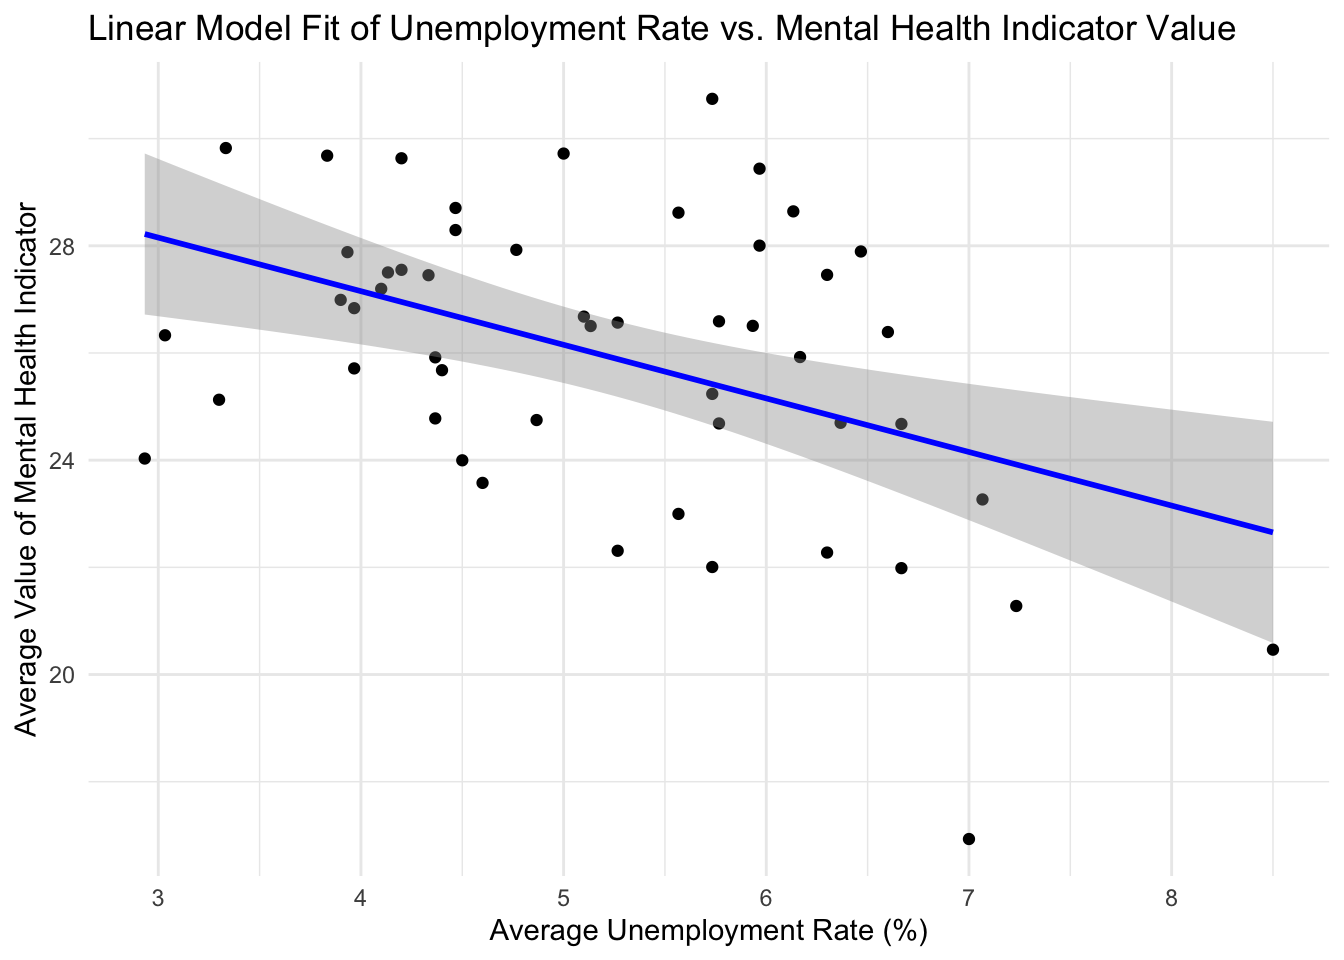
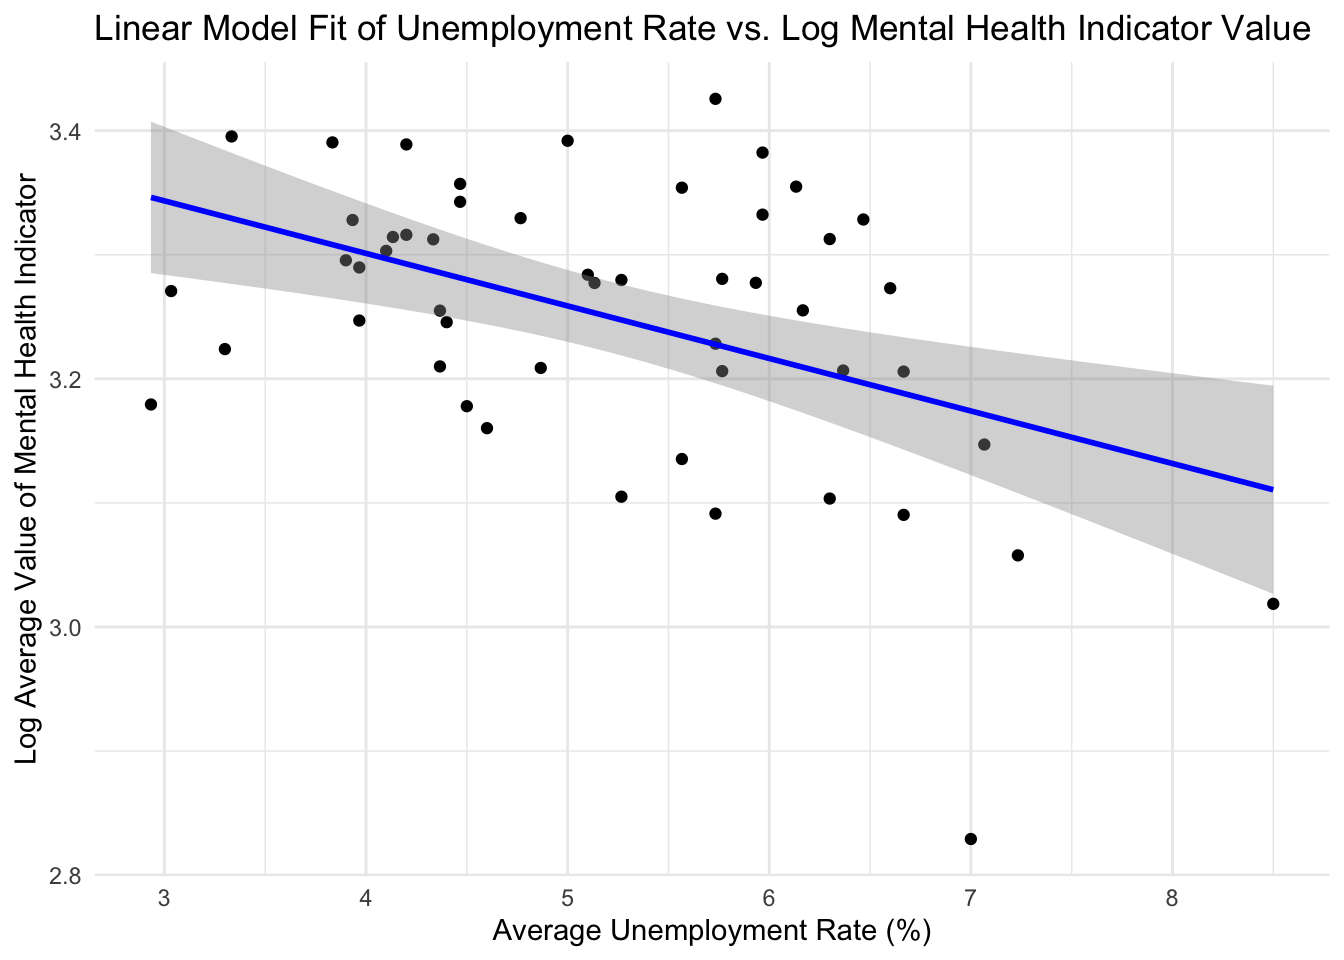
Built site for gh-pages

diff --git a/analysis.html b/analysis.html
@@ -21,69 +21,6 @@ ul.task-list li input[type="checkbox"] {
   margin: 0 0.8em 0.2em -1.6em;
   vertical-align: middle;
 }
-pre > code.sourceCode { white-space: pre; position: relative; }
-pre > code.sourceCode > span { display: inline-block; line-height: 1.25; }
-pre > code.sourceCode > span:empty { height: 1.2em; }
-.sourceCode { overflow: visible; }
-code.sourceCode > span { color: inherit; text-decoration: inherit; }
-div.sourceCode { margin: 1em 0; }
-pre.sourceCode { margin: 0; }
-@media screen {
-div.sourceCode { overflow: auto; }
-}
-@media print {
-pre > code.sourceCode { white-space: pre-wrap; }
-pre > code.sourceCode > span { text-indent: -5em; padding-left: 5em; }
-}
-pre.numberSource code
-  { counter-reset: source-line 0; }
-pre.numberSource code > span
-  { position: relative; left: -4em; counter-increment: source-line; }
-pre.numberSource code > span > a:first-child::before
-  { content: counter(source-line);
-    position: relative; left: -1em; text-align: right; vertical-align: baseline;
-    border: none; display: inline-block;
-    -webkit-touch-callout: none; -webkit-user-select: none;
-    -khtml-user-select: none; -moz-user-select: none;
-    -ms-user-select: none; user-select: none;
-    padding: 0 4px; width: 4em;
-    color: #aaaaaa;
-  }
-pre.numberSource { margin-left: 3em; border-left: 1px solid #aaaaaa;  padding-left: 4px; }
-div.sourceCode
-  {   }
-@media screen {
-pre > code.sourceCode > span > a:first-child::before { text-decoration: underline; }
-}
-code span.al { color: #ff0000; font-weight: bold; } /* Alert */
-code span.an { color: #60a0b0; font-weight: bold; font-style: italic; } /* Annotation */
-code span.at { color: #7d9029; } /* Attribute */
-code span.bn { color: #40a070; } /* BaseN */
-code span.bu { color: #008000; } /* BuiltIn */
-code span.cf { color: #007020; font-weight: bold; } /* ControlFlow */
-code span.ch { color: #4070a0; } /* Char */
-code span.cn { color: #880000; } /* Constant */
-code span.co { color: #60a0b0; font-style: italic; } /* Comment */
-code span.cv { color: #60a0b0; font-weight: bold; font-style: italic; } /* CommentVar */
-code span.do { color: #ba2121; font-style: italic; } /* Documentation */
-code span.dt { color: #902000; } /* DataType */
-code span.dv { color: #40a070; } /* DecVal */
-code span.er { color: #ff0000; font-weight: bold; } /* Error */
-code span.ex { } /* Extension */
-code span.fl { color: #40a070; } /* Float */
-code span.fu { color: #06287e; } /* Function */
-code span.im { color: #008000; font-weight: bold; } /* Import */
-code span.in { color: #60a0b0; font-weight: bold; font-style: italic; } /* Information */
-code span.kw { color: #007020; font-weight: bold; } /* Keyword */
-code span.op { color: #666666; } /* Operator */
-code span.ot { color: #007020; } /* Other */
-code span.pp { color: #bc7a00; } /* Preprocessor */
-code span.sc { color: #4070a0; } /* SpecialChar */
-code span.ss { color: #bb6688; } /* SpecialString */
-code span.st { color: #4070a0; } /* String */
-code span.va { color: #19177c; } /* Variable */
-code span.vs { color: #4070a0; } /* VerbatimString */
-code span.wa { color: #60a0b0; font-weight: bold; font-style: italic; } /* Warning */
 </style>
 
 
@@ -150,7 +87,7 @@ code span.wa { color: #60a0b0; font-weight: bold; font-style: italic; } /* Warni
   </li>  
   <li class="nav-item">
     <a class="nav-link" href="./big_picture.html">
- <span class="menu-text">Big Picture</span></a>
+ <span class="menu-text">Investigating Mental Health</span></a>
   </li>  
   <li class="nav-item">
     <a class="nav-link active" href="./analysis.html" aria-current="page">
@@ -175,16 +112,15 @@ code span.wa { color: #60a0b0; font-weight: bold; font-style: italic; } /* Warni
     <h2 id="toc-title">On this page</h2>
    
   <ul>
-  <li><a href="#example-of-loading-data" id="toc-example-of-loading-data" class="nav-link active" data-scroll-target="#example-of-loading-data">Example of loading data</a></li>
-  <li><a href="#note-on-attribution" id="toc-note-on-attribution" class="nav-link" data-scroll-target="#note-on-attribution">Note on Attribution</a></li>
-  <li><a href="#rubric-on-this-page" id="toc-rubric-on-this-page" class="nav-link" data-scroll-target="#rubric-on-this-page">Rubric: On this page</a></li>
+  <li><a href="#motivates" id="toc-motivates" class="nav-link active" data-scroll-target="#motivates">motivates:</a>
+  <ul class="collapse">
   <li><a href="#introduction-to-data-analysis-on-the-impact-of-unemployment-on-mental-health-during-the-pandemic" id="toc-introduction-to-data-analysis-on-the-impact-of-unemployment-on-mental-health-during-the-pandemic" class="nav-link" data-scroll-target="#introduction-to-data-analysis-on-the-impact-of-unemployment-on-mental-health-during-the-pandemic">Introduction to Data Analysis on the Impact of Unemployment on Mental Health during the Pandemic</a></li>
   <li><a href="#variables-and-relationships-of-interest" id="toc-variables-and-relationships-of-interest" class="nav-link" data-scroll-target="#variables-and-relationships-of-interest">Variables and Relationships of Interest</a></li>
   <li><a href="#research-questions" id="toc-research-questions" class="nav-link" data-scroll-target="#research-questions">Research Questions</a></li>
+  </ul></li>
   <li><a href="#model" id="toc-model" class="nav-link" data-scroll-target="#model">model</a>
   <ul class="collapse">
   <li><a href="#log-level-model" id="toc-log-level-model" class="nav-link" data-scroll-target="#log-level-model">log-level model:</a></li>
-  <li><a href="#sex-and-gender" id="toc-sex-and-gender" class="nav-link" data-scroll-target="#sex-and-gender">sex and gender</a></li>
   </ul></li>
   </ul>
 </nav>
@@ -214,100 +150,9 @@ code span.wa { color: #60a0b0; font-weight: bold; font-style: italic; } /* Warni
 
 </header>
 
-<p><img src="https://upload.wikimedia.org/wikipedia/commons/7/77/Pebbleswithquarzite.jpg" class="img-fluid"></p>
-<p>This comes from the file <code>analysis.qmd</code>.</p>
-<p>We describe here our detailed data analysis. This page will provide an overview of what questions you addressed, illustrations of relevant aspects of the data with tables and figures, and a statistical model that attempts to answer part of the question. You’ll also reflect on next steps and further analysis.</p>
-<p>The audience for this page is someone like your class mates, so you can expect that they have some level of statistical and quantitative sophistication and understand ideas like linear and logistic regression, coefficients, confidence intervals, overfitting, etc.</p>
-<p>While the exact number of figures and tables will vary and depend on your analysis, you should target around 5 to 6. An overly long analysis could lead to losing points. If you want you can link back to your blog posts or create separate pages with more details.</p>
-<p>The style of this paper should aim to be that of an academic paper. I don’t expect this to be of publication quality but you should keep that aim in mind. Avoid using “we” too frequently, for example “We also found that …”. Describe your methodology and your findings but don’t describe your whole process.</p>
-<section id="example-of-loading-data" class="level3">
-<h3 class="anchored" data-anchor-id="example-of-loading-data">Example of loading data</h3>
-<p>The code below shows an example of loading the loan refusal data set (which you should delete at some point).</p>
-<div class="cell">
-<div class="sourceCode cell-code" id="cb1"><pre class="sourceCode r code-with-copy"><code class="sourceCode r"><span id="cb1-1"><a href="#cb1-1" aria-hidden="true" tabindex="-1"></a><span class="fu">library</span>(tidyverse)</span></code><button title="Copy to Clipboard" class="code-copy-button"><i class="bi"></i></button></pre></div>
-<div class="cell-output cell-output-stderr">
-<pre><code>── Attaching core tidyverse packages ──────────────────────── tidyverse 2.0.0 ──
-✔ dplyr     1.1.4     ✔ readr     2.1.4
-✔ forcats   1.0.0     ✔ stringr   1.5.0
-✔ ggplot2   3.4.4     ✔ tibble    3.2.1
-✔ lubridate 1.9.3     ✔ tidyr     1.3.0
-✔ purrr     1.0.2     
-── Conflicts ────────────────────────────────────────── tidyverse_conflicts() ──
-✖ dplyr::filter() masks stats::filter()
-✖ dplyr::lag()    masks stats::lag()
-ℹ Use the conflicted package (&lt;http://conflicted.r-lib.org/&gt;) to force all conflicts to become errors</code></pre>
-</div>
-<div class="sourceCode cell-code" id="cb3"><pre class="sourceCode r code-with-copy"><code class="sourceCode r"><span id="cb3-1"><a href="#cb3-1" aria-hidden="true" tabindex="-1"></a><span class="fu">print</span>(<span class="fu">getwd</span>())</span></code><button title="Copy to Clipboard" class="code-copy-button"><i class="bi"></i></button></pre></div>
-<div class="cell-output cell-output-stdout">
-<pre><code>[1] "/Users/chenqiw/final-project-group-11"</code></pre>
-</div>
-<div class="sourceCode cell-code" id="cb5"><pre class="sourceCode r code-with-copy"><code class="sourceCode r"><span id="cb5-1"><a href="#cb5-1" aria-hidden="true" tabindex="-1"></a>data <span class="ot">&lt;-</span> <span class="fu">read_csv</span>(here<span class="sc">::</span><span class="fu">here</span>(<span class="st">"dataset/loan_refusal_clean.csv"</span>))</span></code><button title="Copy to Clipboard" class="code-copy-button"><i class="bi"></i></button></pre></div>
-<div class="cell-output cell-output-stderr">
-<pre><code>Rows: 20 Columns: 5
-── Column specification ────────────────────────────────────────────────────────
-Delimiter: ","
-chr (1): bank
-dbl (4): min, white, himin, hiwhite
-
-ℹ Use `spec()` to retrieve the full column specification for this data.
-ℹ Specify the column types or set `show_col_types = FALSE` to quiet this message.</code></pre>
-</div>
-<div class="sourceCode cell-code" id="cb7"><pre class="sourceCode r code-with-copy"><code class="sourceCode r"><span id="cb7-1"><a href="#cb7-1" aria-hidden="true" tabindex="-1"></a><span class="fu">load</span>(here<span class="sc">::</span><span class="fu">here</span>(<span class="st">"dataset/loan_refusal.RData"</span>))</span>
-<span id="cb7-2"><a href="#cb7-2" aria-hidden="true" tabindex="-1"></a><span class="fu">print</span>(<span class="fu">ls</span>())</span></code><button title="Copy to Clipboard" class="code-copy-button"><i class="bi"></i></button></pre></div>
-<div class="cell-output cell-output-stdout">
-<pre><code>[1] "data"            "loan_data_clean"</code></pre>
-</div>
-</div>
-</section>
-<section id="note-on-attribution" class="level2">
-<h2 class="anchored" data-anchor-id="note-on-attribution">Note on Attribution</h2>
-<p>In general, you should try to provide links to relevant resources, especially those that helped you. You don’t have to link to every StackOverflow post you used but if there are explainers on aspects of the data or specific models that you found helpful, try to link to those. Also, try to link to other sources that might support (or refute) your analysis. These can just be regular hyperlinks. You don’t need a formal citation.</p>
-<p>If you are directly quoting from a source, please make that clear. You can show quotes using <code>&gt;</code> like this</p>
-<pre><code>&gt; To be or not to be.</code></pre>
-<blockquote class="blockquote">
-<p>To be or not to be.</p>
-</blockquote>
-<hr>
-</section>
-<section id="rubric-on-this-page" class="level2">
-<h2 class="anchored" data-anchor-id="rubric-on-this-page">Rubric: On this page</h2>
-<p>You will</p>
-<ul>
-<li>Introduce what motivates your Data Analysis (DA)
-<ul>
-<li>Which variables and relationships are you most interested in?</li>
-<li>What questions are you interested in answering?</li>
-<li>Provide context for the rest of the page. This will include figures/tables that illustrate aspects of the data of your question.</li>
-</ul></li>
-<li>Modeling and Inference
-<ul>
-<li>The page will include some kind of formal statistical model. This could be a linear regression, logistic regression, or another modeling framework.</li>
-<li>Explain the ideas and techniques you used to choose the predictors for your model. (Think about including interaction terms and other transformations of your variables.)</li>
-<li>Describe the results of your modelling and make sure to give a sense of the uncertainty in your estimates and conclusions.</li>
-</ul></li>
-<li>Explain the flaws and limitations of your analysis
-<ul>
-<li>Are there some assumptions that you needed to make that might not hold? Is there other data that would help to answer your questions?</li>
-</ul></li>
-<li>Clarity Figures
-<ul>
-<li>Are your figures/tables/results easy to read, informative, without problems like overplotting, hard-to-read labels, etc?</li>
-<li>Each figure should provide a key insight. Too many figures or other data summaries can detract from this. (While not a hard limit, around 5 total figures is probably a good target.)</li>
-<li>Default <code>lm</code> output and plots are typically not acceptable.</li>
-</ul></li>
-<li>Clarity of Explanations
-<ul>
-<li>How well do you explain each figure/result?</li>
-<li>Do you provide interpretations that suggest further analysis or explanations for observed phenomenon?</li>
-</ul></li>
-<li>Organization and cleanliness.
-<ul>
-<li>Make sure to remove excessive warnings, hide most or all code, organize with sections or multiple pages, use bullets, etc.</li>
-<li>This page should be self-contained, i.e.&nbsp;provide a description of the relevant data.</li>
-</ul></li>
-</ul>
-<p>———————————-keep———————————————- # motivates:</p>
-</section>
+<p><img src="images/IMG_5531.jpeg" class="img-fluid"></p>
+<section id="motivates" class="level1">
+<h1>motivates:</h1>
 <section id="introduction-to-data-analysis-on-the-impact-of-unemployment-on-mental-health-during-the-pandemic" class="level2">
 <h2 class="anchored" data-anchor-id="introduction-to-data-analysis-on-the-impact-of-unemployment-on-mental-health-during-the-pandemic">Introduction to Data Analysis on the Impact of Unemployment on Mental Health during the Pandemic</h2>
 <p>The COVID-19 pandemic has had a profound impact on global health and economic stability, touching all aspects of life, including mental well-being. Given the widespread changes and challenges, there has been a renewed focus on mental health, particularly as it relates to economic stresses like unemployment. This analysis aims to explore the complex relationship between unemployment and mental health during these challenging times.</p>
@@ -322,14 +167,29 @@ dbl (4): min, white, himin, hiwhite
 <p>This analysis seeks to answer the following questions:</p>
 <p>How has the unemployment rate influenced mental health conditions during the pandemic years? Are there significant differences in mental health across different age groups and genders? Has there been an increase in the use of mental health services correlating with changes in the unemployment rate?</p>
 </section>
+</section>
 <section id="model" class="level1">
 <h1>model</h1>
 <div class="cell">
 <div class="cell-output cell-output-stderr">
+<pre><code>
+Attaching package: 'dplyr'</code></pre>
+</div>
+<div class="cell-output cell-output-stderr">
+<pre><code>The following objects are masked from 'package:stats':
+
+    filter, lag</code></pre>
+</div>
+<div class="cell-output cell-output-stderr">
+<pre><code>The following objects are masked from 'package:base':
+
+    intersect, setdiff, setequal, union</code></pre>
+</div>
+<div class="cell-output cell-output-stderr">
 <pre><code>`geom_smooth()` using formula = 'y ~ x'</code></pre>
 </div>
 <div class="cell-output-display">
-<p><img src="analysis_files/figure-html/unnamed-chunk-2-1.png" class="img-fluid" width="672"></p>
+<p><img src="analysis_files/figure-html/unnamed-chunk-1-1.png" class="img-fluid" width="672"></p>
 </div>
 </div>
 <table class="table">
@@ -424,10 +284,10 @@ dbl (4): min, white, himin, hiwhite
 <pre><code>`geom_smooth()` using formula = 'y ~ x'</code></pre>
 </div>
 <div class="cell-output-display">
-<p><img src="analysis_files/figure-html/unnamed-chunk-3-1.png" class="img-fluid" width="672"></p>
+<p><img src="analysis_files/figure-html/unnamed-chunk-2-1.png" class="img-fluid" width="672"></p>
 </div>
 <div class="cell-output-display">
-<p><img src="analysis_files/figure-html/unnamed-chunk-3-2.png" class="img-fluid" width="672"></p>
+<p><img src="analysis_files/figure-html/unnamed-chunk-2-2.png" class="img-fluid" width="672"></p>
 </div>
 <div class="cell-output cell-output-stdout">
 <pre><code>quartz_off_screen 
@@ -519,12 +379,6 @@ dbl (4): min, white, himin, hiwhite
 </tbody>
 </table>
 <p>based on the plot and summary of the model, log-level models seems work better than level-level model, so we do more advanced check on this model. it indicated that one percent in crease in unemployment rate will cause the value decrease by 0.04233%. Also, we graph the qq plot, and see most of the point are around the line, indicated that most the residual is approximatelly normally distributed.</p>
-</section>
-<section id="sex-and-gender" class="level2">
-<h2 class="anchored" data-anchor-id="sex-and-gender">sex and gender</h2>
-<div class="cell">
-
-</div>
 
 
 </section>

diff --git a/big_picture.html b/big_picture.html
@@ -8,7 +8,7 @@
 
 <meta name="description" content="A 538/Upshot style article about the data.">
 
-<title>MA [46]15 Final Project Group 11 - Big Picture</title>
+<title>MA [46]15 Final Project Group 11 - Investigating Mental Health</title>
 <style>
 code{white-space: pre-wrap;}
 span.smallcaps{font-variant: small-caps;}
@@ -86,7 +86,7 @@ ul.task-list li input[type="checkbox"] {
   </li>  
   <li class="nav-item">
     <a class="nav-link active" href="./big_picture.html" aria-current="page">
- <span class="menu-text">Big Picture</span></a>
+ <span class="menu-text">Investigating Mental Health</span></a>
   </li>  
   <li class="nav-item">
     <a class="nav-link" href="./analysis.html">
@@ -133,7 +133,7 @@ ul.task-list li input[type="checkbox"] {
 
 <header id="title-block-header" class="quarto-title-block default">
 <div class="quarto-title">
-<h1 class="title">Big Picture</h1>
+<h1 class="title">Investigating Mental Health</h1>
 </div>
 
 <div>

diff --git a/data.html b/data.html
@@ -86,7 +86,7 @@ ul.task-list li input[type="checkbox"] {
   </li>  
   <li class="nav-item">
     <a class="nav-link" href="./big_picture.html">
- <span class="menu-text">Big Picture</span></a>
+ <span class="menu-text">Investigating Mental Health</span></a>
   </li>  
   <li class="nav-item">
     <a class="nav-link" href="./analysis.html">
@@ -155,7 +155,7 @@ ul.task-list li input[type="checkbox"] {
 
 </header>
 
-<p><img src="images/data-import-cheatsheet-thumbs.png" class="img-fluid"></p>
+<p><img src="images/ana.png" class="img-fluid"></p>
 <section id="describe-wherehow-to-find-data" class="level1">
 <h1>Describe where/how to find data:</h1>
 <section id="mental-health" class="level3">

diff --git a/posts/2023-12-20-examples/examples.html b/posts/2023-12-20-examples/examples.html
@@ -150,7 +150,7 @@ code span.wa { color: #60a0b0; font-weight: bold; font-style: italic; } /* Warni
   </li>  
   <li class="nav-item">
     <a class="nav-link" href="../../big_picture.html">
- <span class="menu-text">Big Picture</span></a>
+ <span class="menu-text">Investigating Mental Health</span></a>
   </li>  
   <li class="nav-item">
     <a class="nav-link" href="../../analysis.html">

diff --git a/posts/2024-04-10-blog-post-4/blog-post-4.html b/posts/2024-04-10-blog-post-4/blog-post-4.html
@@ -150,7 +150,7 @@ code span.wa { color: #60a0b0; font-weight: bold; font-style: italic; } /* Warni
   </li>  
   <li class="nav-item">
     <a class="nav-link" href="../../big_picture.html">
- <span class="menu-text">Big Picture</span></a>
+ <span class="menu-text">Investigating Mental Health</span></a>
   </li>  
   <li class="nav-item">
     <a class="nav-link" href="../../analysis.html">

diff --git a/posts/2024-04-19-blog-post-6/blog-post-6.html b/posts/2024-04-19-blog-post-6/blog-post-6.html
@@ -150,7 +150,7 @@ code span.wa { color: #60a0b0; font-weight: bold; font-style: italic; } /* Warni
   </li>  
   <li class="nav-item">
     <a class="nav-link" href="../../big_picture.html">
- <span class="menu-text">Big Picture</span></a>
+ <span class="menu-text">Investigating Mental Health</span></a>
   </li>  
   <li class="nav-item">
     <a class="nav-link" href="../../analysis.html">

diff --git a/posts/2024-04-26-blog-post-7/blog-post-7.html b/posts/2024-04-26-blog-post-7/blog-post-7.html
@@ -150,7 +150,7 @@ code span.wa { color: #60a0b0; font-weight: bold; font-style: italic; } /* Warni
   </li>  
   <li class="nav-item">
     <a class="nav-link" href="../../big_picture.html">
- <span class="menu-text">Big Picture</span></a>
+ <span class="menu-text">Investigating Mental Health</span></a>
   </li>  
   <li class="nav-item">
     <a class="nav-link" href="../../analysis.html">

diff --git a/posts/2023-10-13-first-team-meeting/first-team-meeting.html b/posts/2023-10-13-first-team-meeting/first-team-meeting.html
@@ -88,7 +88,7 @@ ul.task-list li input[type="checkbox"] {
   </li>  
   <li class="nav-item">
     <a class="nav-link" href="../../big_picture.html">
- <span class="menu-text">Big Picture</span></a>
+ <span class="menu-text">Investigating Mental Health</span></a>
   </li>  
   <li class="nav-item">
     <a class="nav-link" href="../../analysis.html">

diff --git a/posts/2023-10-15-getting-started/getting-started.html b/posts/2023-10-15-getting-started/getting-started.html
@@ -88,7 +88,7 @@ ul.task-list li input[type="checkbox"] {
   </li>  
   <li class="nav-item">
     <a class="nav-link" href="../../big_picture.html">
- <span class="menu-text">Big Picture</span></a>
+ <span class="menu-text">Investigating Mental Health</span></a>
   </li>  
   <li class="nav-item">
     <a class="nav-link" href="../../analysis.html">

diff --git a/posts/2024-02-28-blog-post-1/blog-post-1.html b/posts/2024-02-28-blog-post-1/blog-post-1.html
@@ -87,7 +87,7 @@ ul.task-list li input[type="checkbox"] {
   </li>  
   <li class="nav-item">
     <a class="nav-link" href="../../big_picture.html">
- <span class="menu-text">Big Picture</span></a>
+ <span class="menu-text">Investigating Mental Health</span></a>
   </li>  
   <li class="nav-item">
     <a class="nav-link" href="../../analysis.html">

diff --git a/posts/2024-03-25-blog-post-2/blog-post-2.html b/posts/2024-03-25-blog-post-2/blog-post-2.html
@@ -87,7 +87,7 @@ ul.task-list li input[type="checkbox"] {
   </li>  
   <li class="nav-item">
     <a class="nav-link" href="../../big_picture.html">
- <span class="menu-text">Big Picture</span></a>
+ <span class="menu-text">Investigating Mental Health</span></a>
   </li>  
   <li class="nav-item">
     <a class="nav-link" href="../../analysis.html">

diff --git a/posts/2024-04-01-blog-post-3/blog-post-3.html b/posts/2024-04-01-blog-post-3/blog-post-3.html
@@ -87,7 +87,7 @@ ul.task-list li input[type="checkbox"] {
   </li>  
   <li class="nav-item">
     <a class="nav-link" href="../../big_picture.html">
- <span class="menu-text">Big Picture</span></a>
+ <span class="menu-text">Investigating Mental Health</span></a>
   </li>  
   <li class="nav-item">
     <a class="nav-link" href="../../analysis.html">
